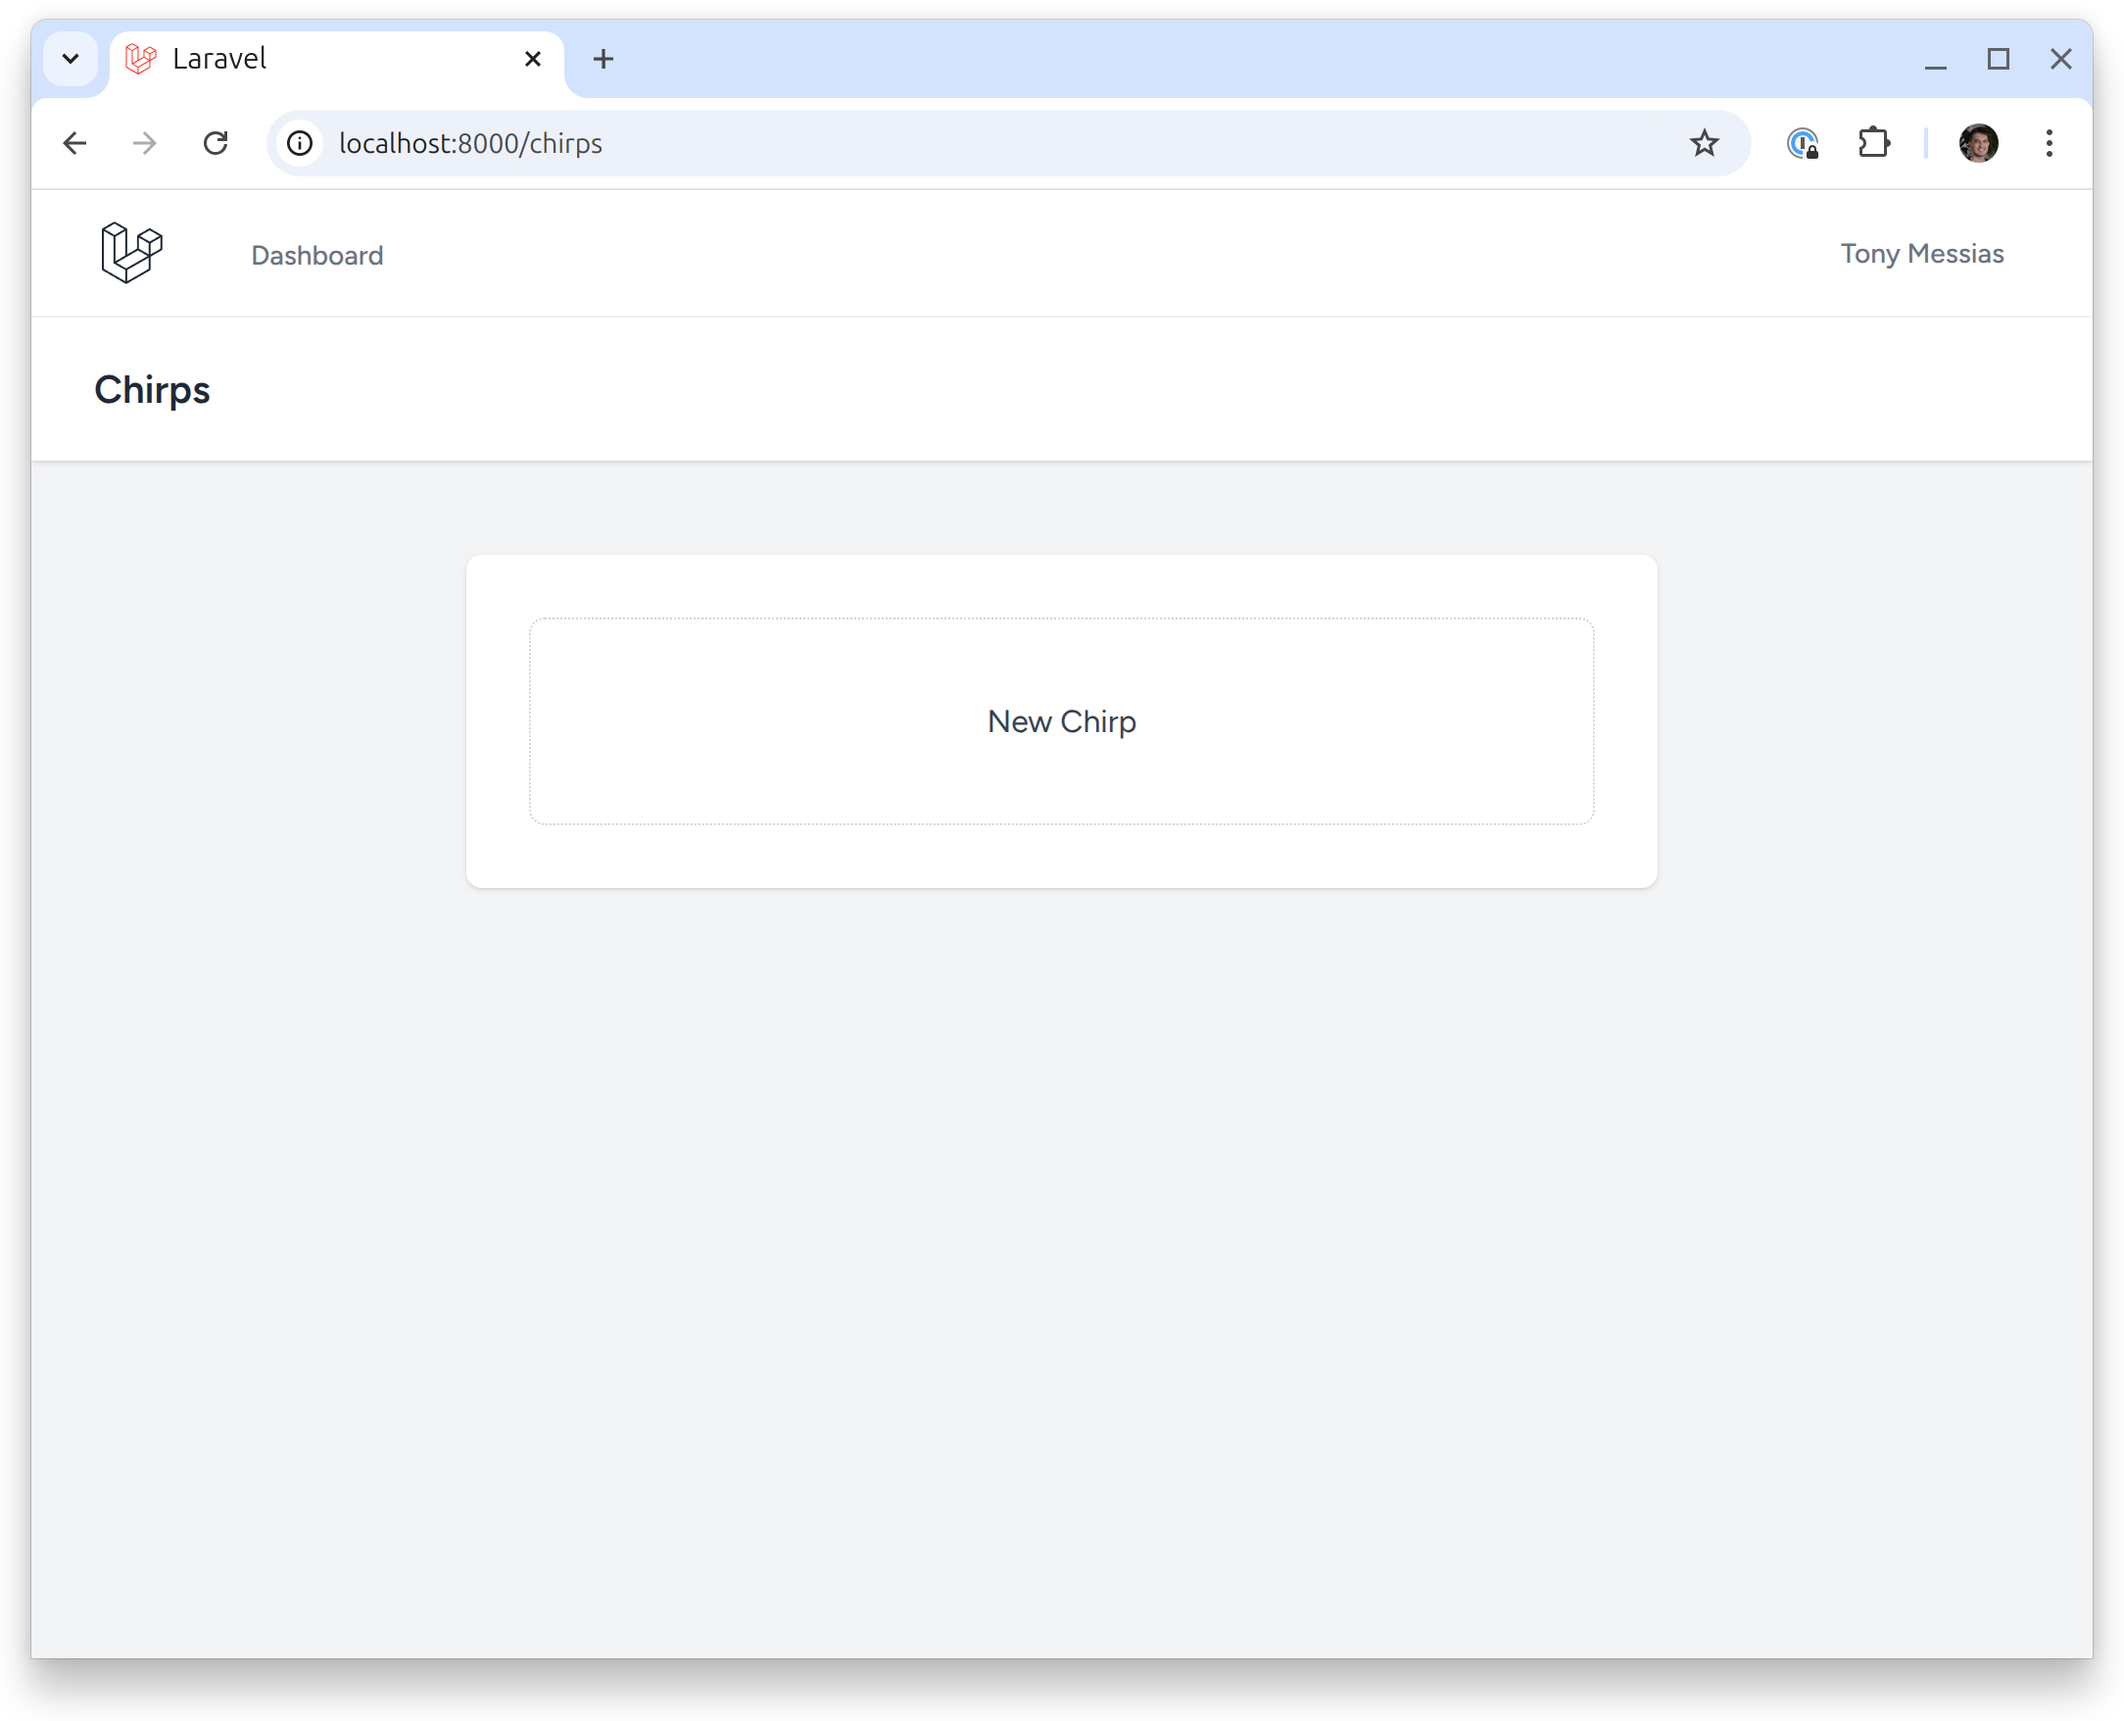
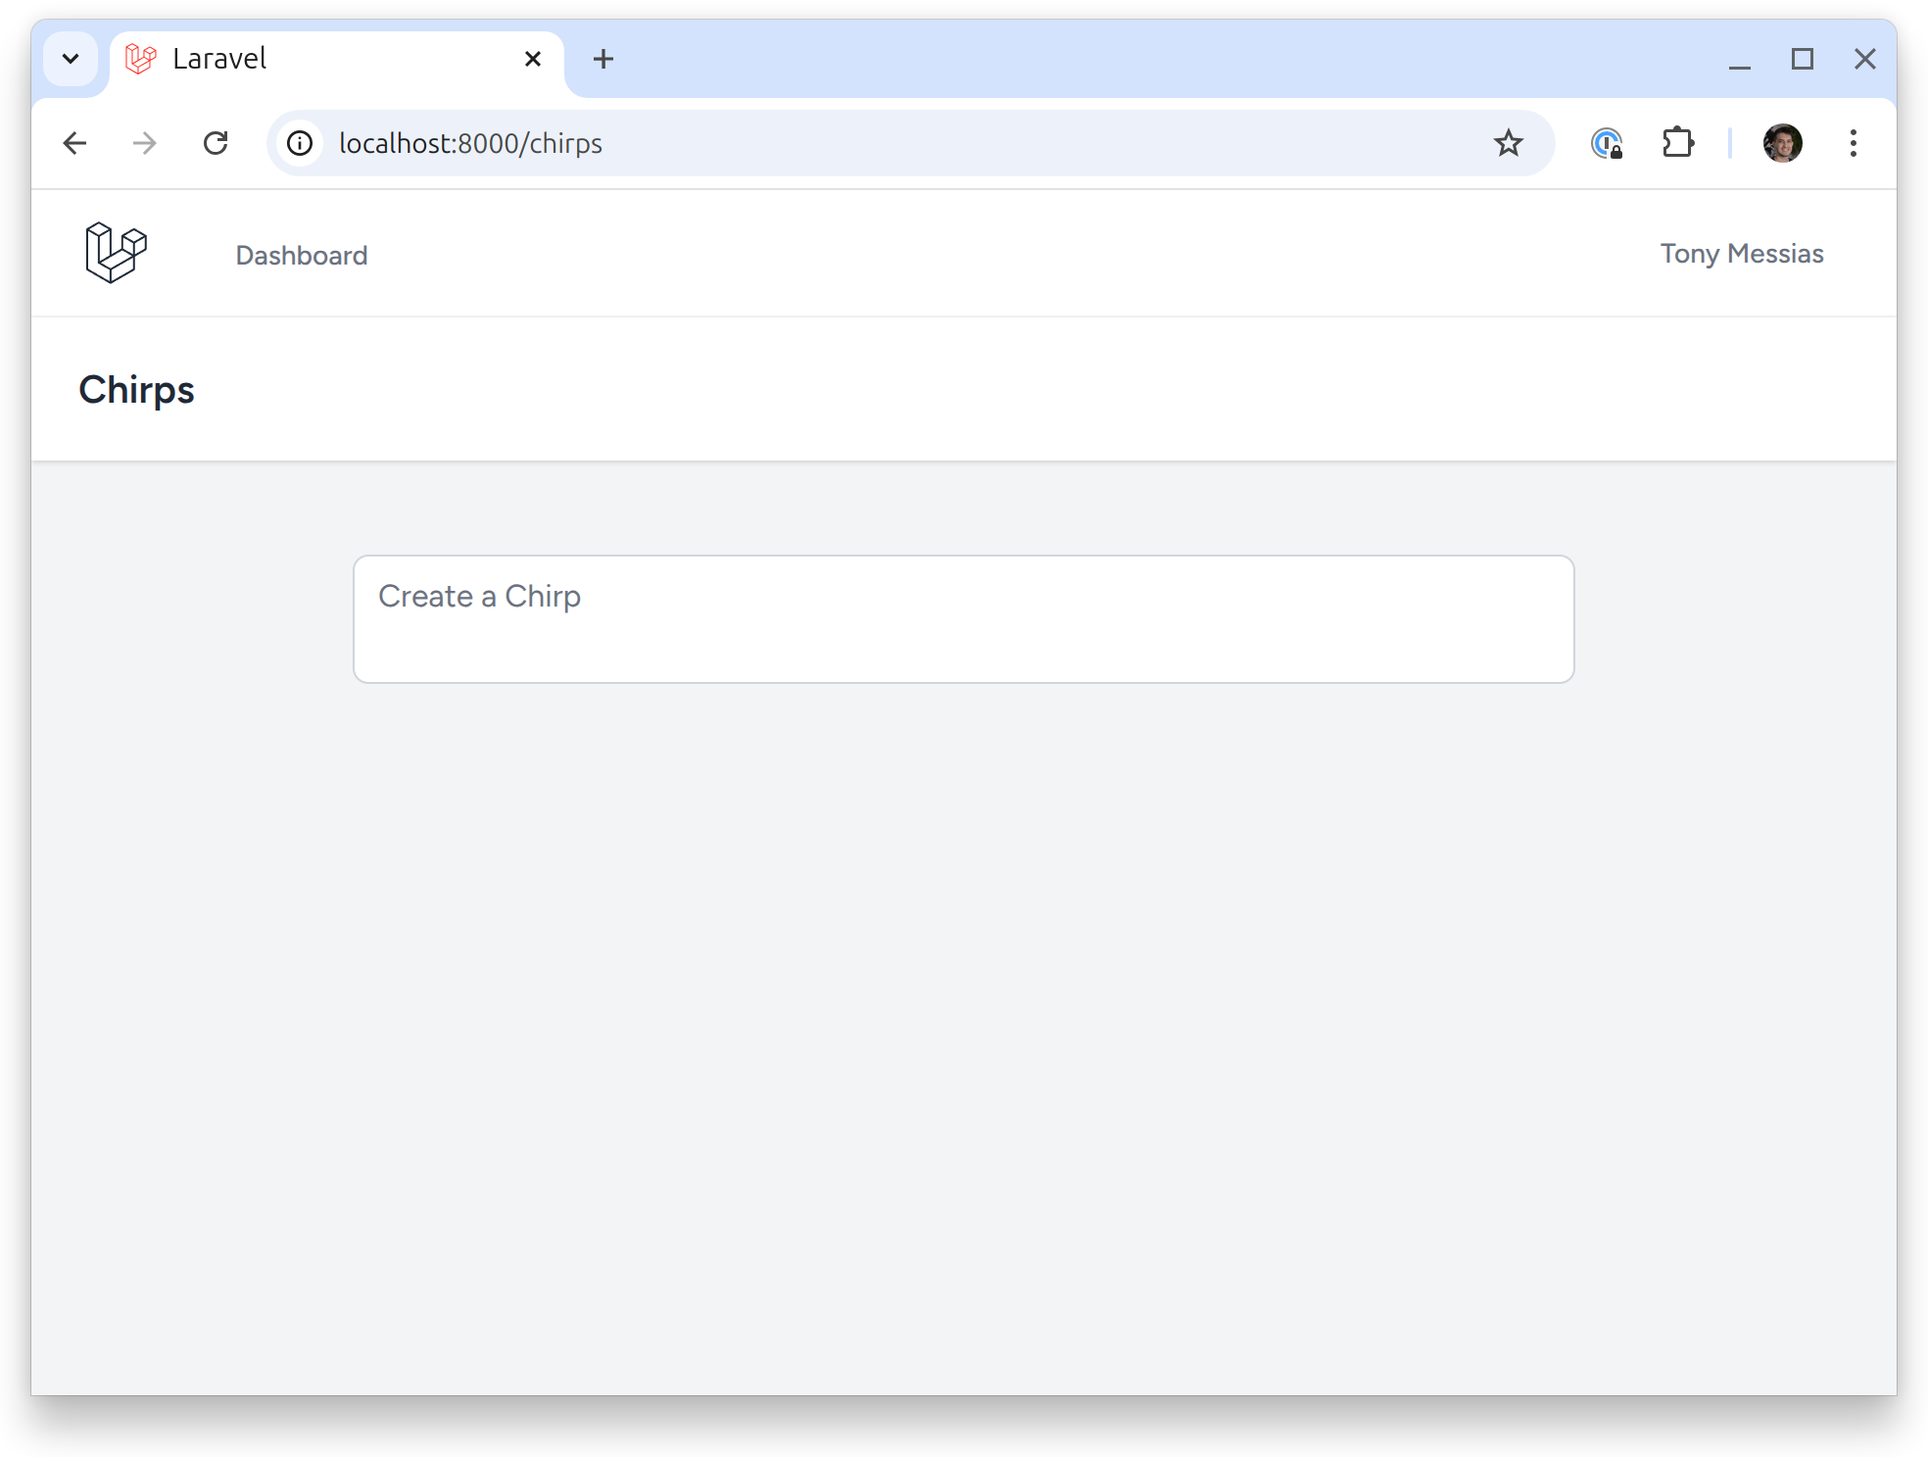
Creating Chirps

diff --git a/source/_bootcamp/creating-chirps.md b/source/_bootcamp/creating-chirps.md
@@ -158,12 +158,8 @@ We can then create our `chirps.index` view with a link to our form for creating 
     </x-slot>
 
     <div class="py-12">
-        <div class="max-w-2xl mx-auto sm:px-6 lg:px-8 space-y-6">
-            <div class="p-4 sm:p-8 bg-white dark:bg-gray-800 shadow sm:rounded-lg">
-                <div class="max-w-xl mx-auto">
-                    @include('chirps.partials.new-chirp-trigger')
-                </div>
-            </div>
+        <div class="max-w-2xl mx-auto p-4 sm:p-6 lg:p-8">
+            @include('chirps.partials.new-chirp-trigger')
         </div>
     </div>
 </x-app-layout>
@@ -176,9 +172,9 @@ This view is including a partial called `new-chirp-trigger`, so create the parti
 <x-fenced-code file="resources/views/chirps/partials/new-chirp-trigger.blade.php" copy>
 
 ```blade 
-<div class="relative flex items-center justify-center py-10 px-4 rounded-lg border border-dotted border-gray-300 dark:border-gray-600">
-    <a class="text-gray-700 dark:text-gray-500" href="{{ route('chirps.create') }}">
-        {{ __('New Chirp') }}
+<div class="relative flex items-center pt-2 pb-8 px-3 rounded-lg transition bg-white border border-gray-300 dark:border-gray-700 dark:bg-gray-900 hover:bg-opacity-70">
+    <a class="text-gray-500" href="{{ route('chirps.create') }}">
+        {{ __('Create a Chirp') }}
         <span class="absolute inset-0"></span>
     </a>
 </div>
@@ -200,11 +196,7 @@ Then, let's create our `chirps.create` page view with the Chirps form:
 
     <div class="py-12">
         <div class="max-w-2xl mx-auto sm:px-6 lg:px-8 space-y-6">
-            <div class="p-4 sm:p-8 bg-white dark:bg-gray-800 shadow sm:rounded-lg">
-                <div class="max-w-xl mx-auto">
-                    @include('chirps.partials.form')
-                </div>
-            </div>
+            @include('chirps.partials.form')
         </div>
     </div>
 </x-app-layout>
@@ -250,11 +242,11 @@ This partial is making use a Blade component that doesn't exist yet called `x-te
 
 That's it! Refresh the page in your browser to see your new form rendered in the default layout provided by Breeze!
 
-![Creating Chirps Link](/assets/images/bootcamp/creating-chirps-link.png?v=2)
+![Creating Chirps Link](/assets/images/bootcamp/creating-chirps-link.png?v=3)
 
 If you click on that link, you will see the form to create Chirps and the breadcrumbs should also have been updated:
 
-![Creating Chirps Form](/assets/images/bootcamp/creating-chirps-form.png?v=2)
+![Creating Chirps Form](/assets/images/bootcamp/creating-chirps-form.png?v=3)
 
 ### Navigation menu
 
@@ -302,7 +294,7 @@ Don't forget the responsive menu:
 
 We should see the Chirps link on the page nav now:
 
-![Chirps Nav Link](/assets/images/bootcamp/creating-chirps-nav-link.png?v=2)
+![Chirps Nav Link](/assets/images/bootcamp/creating-chirps-nav-link.png?v=3)
 
 ## Saving the Chirp
 
@@ -433,7 +425,7 @@ return new class extends Migration
 
 </x-fenced-code>
 
-We haven't migrated the database since we added this migration, so let do it now:
+We haven't migrated the database since we added this migration, so let's do it now:
 
 ```bash
 php artisan migrate
@@ -445,7 +437,7 @@ Each database migration will only be run once. To make additional changes to a t
 
 We're now ready to send a Chirp using the form we just created! We won't be able to see the result yet because we haven't displayed existing Chirps on the page.
 
-![Saving Chirps](/assets/images/bootcamp/creating-chirps-saving.png?v=2)
+![Saving Chirps](/assets/images/bootcamp/creating-chirps-saving.png?v=3)
 
 If you leave the message field empty, or enter more than 255 characters, then you'll see the validation in action.
 
@@ -508,10 +500,8 @@ class ChirpController extends Controller
 
         $request->user()->chirps()->create($validated);
 
-{-        return redirect()->route('chirps.index');-}
-{+        return redirect()
-            ->route('chirps.index')
-            ->with('notice', __('Chirp created.'));+}
+{-        return redirect(route('chirps.index'));-}
+{+        return redirect(route('chirps.index'))->with('notice', __('Chirp created.'));+}
     }
 
     // ...
@@ -577,4 +567,4 @@ php artisan tailwindcss:build
 
 If you create another Chirp now, you should see a nice notification message at the top:
 
-![Flash Messages](/assets/images/bootcamp/creating-chirps-flash-messages.png?v=2)
+![Flash Messages](/assets/images/bootcamp/creating-chirps-flash-messages.png?v=3)

diff --git a/source/_bootcamp/installation.md b/source/_bootcamp/installation.md
@@ -27,7 +27,7 @@ php artisan serve
 
 Once you have started the Artisan development server, your application will be accessible in your web browser at [http://localhost:8000](http://localhost:8000).
 
-![Laravel Welcome page](/assets/images/bootcamp/laravel-welcome.png?v=2)
+![Laravel Welcome page](/assets/images/bootcamp/laravel-welcome.png?v=3)
 
 By default, the Laravel app will be created using SQLite.
 
@@ -49,15 +49,15 @@ Turbo Breeze will install and configure your front-end dependencies for you. It 
 
 The welcome page should now have the Login and Register links at the top:
 
-![Welcome with Auth](/assets/images/bootcamp/install-welcome-auth.png?v=2)
+![Welcome with Auth](/assets/images/bootcamp/install-welcome-auth.png?v=3)
 
 And you should be able to head to the `/register` route and create your own account:
 
-![Register Page](/assets/images/bootcamp/install-register.png?v=2)
+![Register Page](/assets/images/bootcamp/install-register.png?v=3)
 
 Then, you should be redirected to the Dashboard page:
 
-![Dashboard Page](/assets/images/bootcamp/install-dashboard.png?v=2)
+![Dashboard Page](/assets/images/bootcamp/install-dashboard.png?v=3)
 
 This Dashboard page is protected by Laravel's auth middleware, so only authenticated users can access it. The registration process automatically authenticates us.
 
@@ -65,7 +65,7 @@ Turbo Breeze is a fork of Laravel Breeze, but customized to work better in a Hot
 
 There are a couple differences between Turbo Breeze and Laravel Breeze. In Laravel Breeze, your name at the top of the navigation bar is a dropdown. In Turbo Breeze, it's a link to a page with the menu:
 
-![Profile Menu](/assets/images/bootcamp/profile-menu.png?v=2)
+![Profile Menu](/assets/images/bootcamp/profile-menu.png?v=3)
 
 In Laravel Breeze, all the profile forms are rendered in the same page. In Turbo Breeze, each one has its own dedicated page. That's not a requirement for Hotwired apps, but it works best in a mobile context. We'll see more about that later in this bootcamp.
 
